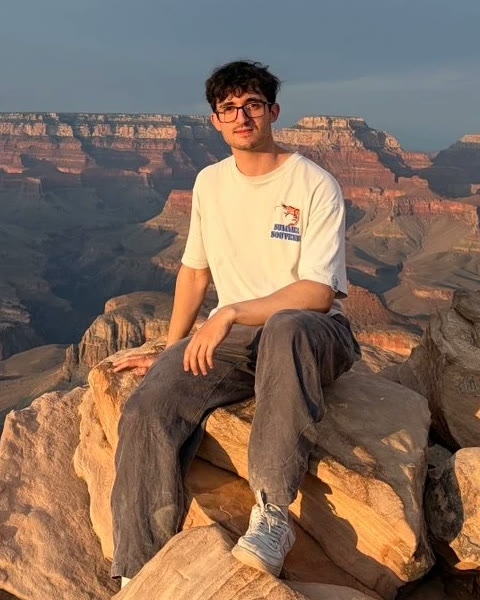
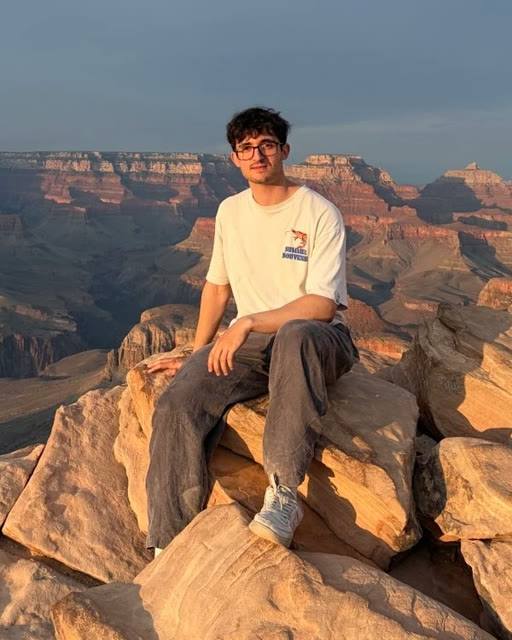
About: wider photo crop, slightly larger

diff --git a/public/index.html b/public/index.html
@@ -95,7 +95,7 @@
   nav.tabs a[aria-current="page"] { color: #1a1a1a; font-weight: bold; text-decoration: underline; text-underline-offset: 8px; text-decoration-thickness: 2px; }
   .about { display: flex; gap: 32px; align-items: flex-start; margin-top: 2em; }
   .about-text p:first-child { margin-top: 0; }
-  .photo { width: 240px; height: 300px; object-fit: cover; flex-shrink: 0; }
+  .photo { width: 256px; height: 320px; object-fit: cover; flex-shrink: 0; }
   @media (max-width: 600px) { .about { flex-direction: column-reverse; } .photo { width: 100%; max-width: 320px; height: auto; } }
   .aside { font-size: 0.85em; color: #555; }
   .aside .ref-link { color: #555; display: inline; }
@@ -122,7 +122,7 @@
 <p>I graduated from Tsinghua University in 2026, advised by Prof. Wenjian Yu, and now work as a software engineer on LLM agents and AI inference.</p>
 <p>Outside of work, I love nature, rock climbing, chess and good coffee. <span class="aside">You can find me on <a class="ref-link" href="https://lichess.org/@/Hectorrr33"><svg class="ic" viewBox="0 0 16 16" aria-hidden="true"><g fill="none" stroke="#1a1a1a" stroke-width="1.4" stroke-linecap="round" stroke-linejoin="round"><circle cx="8" cy="4.4" r="1.8"/><path d="M6.4 11.2c.2-1.9.7-3 1.6-3.7.9.7 1.4 1.8 1.6 3.7z"/><path d="M4.6 13h6.8"/></g></svg>Lichess</a>.</span></p>
 </div>
-<img class="photo" src="photo.jpg" alt="Héctor Rodríguez Rodríguez at the Grand Canyon" width="240" height="300">
+<img class="photo" src="photo.jpg" alt="Héctor Rodríguez Rodríguez at the Grand Canyon" width="256" height="320">
 </div>
 
 </body>
